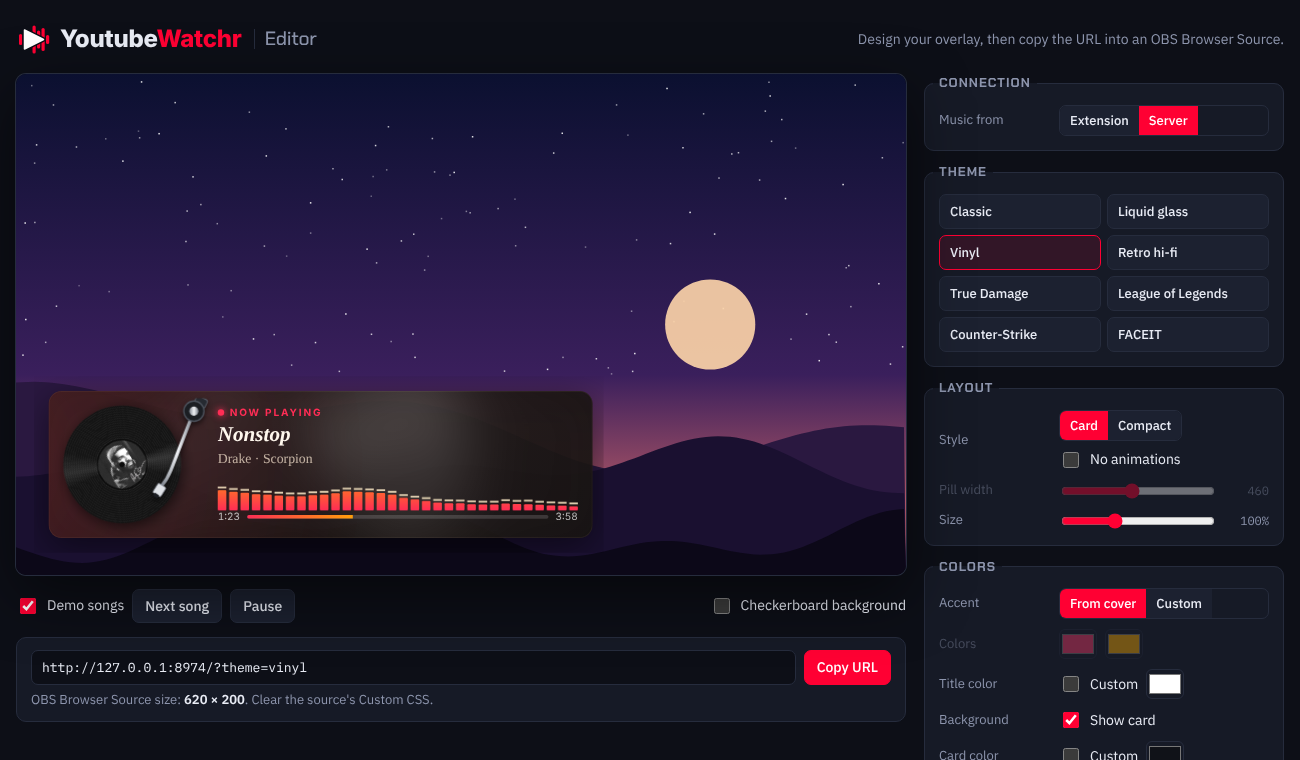
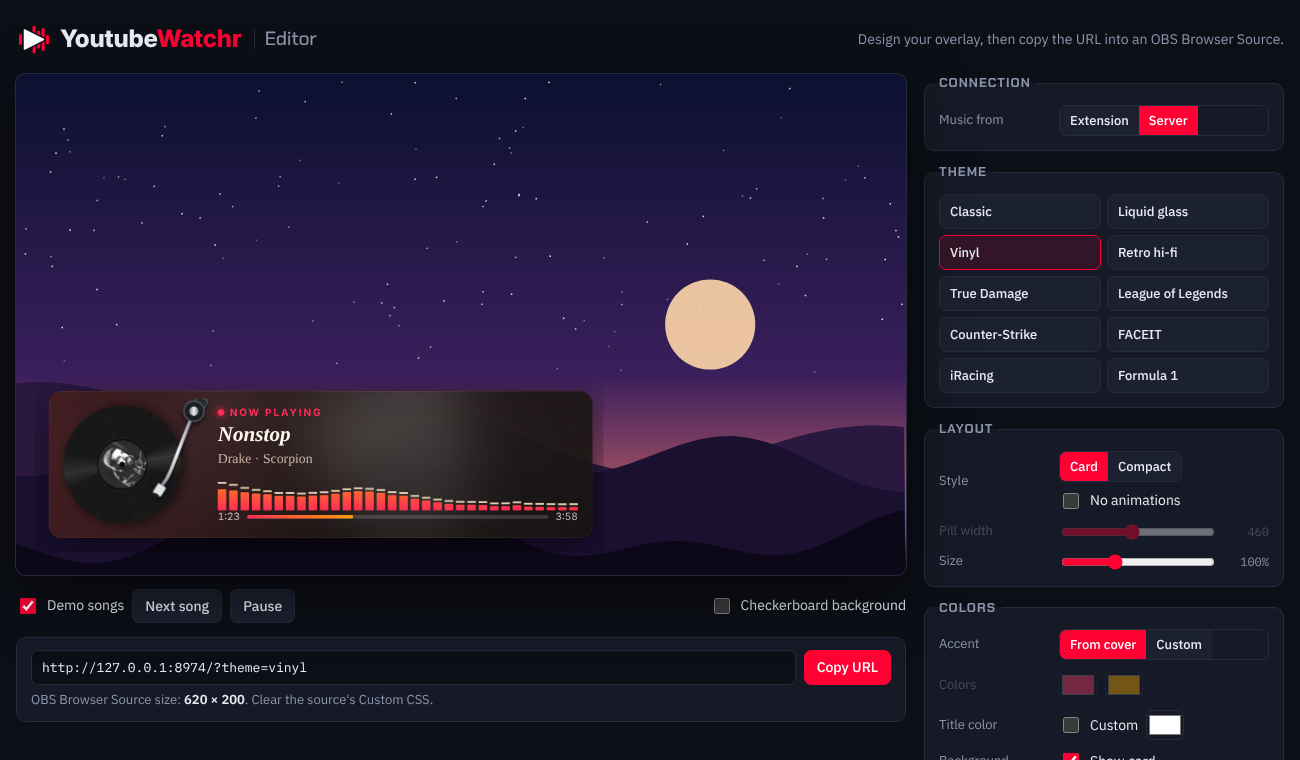
Add iRacing and Formula 1 themes (#17)
theme=iracing: sim-racing HUD with a blue top edge, a license-style
"A" chip as the label, a three-sector progress bar and the equalizer
drawn as the input telemetry graph (bass = green throttle trace, highs =
red brake line, pedal bars on the right). Barlow Semi Condensed.

theme=f1: broadcast-graphics look with a rounded top-right corner, red
team stripe, slanted red "Now Playing" tab, heavy uppercase title and a
checkered flag fading in on the right. Titillium Web.

Both have compact versions and their own colors, are in the editor, and
the README GIF, editor screenshot and theme list include them.

Claude-Session: https://claude.ai/code/session_01MvjFoof3BfhcWmt8swZFtR

diff --git a/overlay.html b/overlay.html
@@ -425,6 +425,94 @@
   }
   body.compact.truedamage #eq { flex: none; min-height: 0; width: 70px; height: 30px; }
 
+  /* theme=iracing: sim-racing HUD. Dark slate panel with a blue top edge, a
+     license-style chip as the label, and the equalizer as the input telemetry
+     trace (green throttle area, red brake line, pedal bars on the right). The
+     progress bar is split into three sectors. */
+  body.iracing { font-family: "Barlow Semi Condensed", "Arial Narrow", "Segoe UI", sans-serif; --frost: .12; }
+  body.iracing #card {
+    border-radius: 4px; padding: 14px 18px 14px 14px;
+    background: linear-gradient(180deg, rgba(22,28,38,.95), rgba(10,13,19,.95));
+    box-shadow: 0 10px 30px rgba(0,0,0,.5), inset 0 0 0 1px rgba(255,255,255,.07);
+  }
+  body.iracing #card::after {
+    content: ""; position: absolute; left: 0; right: 0; top: 0; height: 3px; pointer-events: none;
+    background: linear-gradient(90deg, var(--accent), color-mix(in srgb, var(--accent) 30%, transparent));
+  }
+  body.iracing #glow { display: none; }
+  body.iracing #art-wrap { border-radius: 3px; box-shadow: 0 0 0 1px rgba(255,255,255,.18), 0 6px 16px rgba(0,0,0,.5); }
+  body.iracing #label {
+    align-self: flex-start; padding: 2px 8px 2px 0; border-radius: 3px; gap: 7px;
+    background: color-mix(in srgb, var(--accent) 22%, transparent); box-shadow: inset 0 0 0 1px var(--accent);
+    color: #fff; font-size: 12px; font-weight: 700; letter-spacing: .1em; overflow: hidden;
+  }
+  body.iracing #label::before {
+    /* the license class letter box */
+    content: "A"; width: auto; height: auto; padding: 2px 6px; margin: -2px 0; border-radius: 0;
+    background: var(--accent); box-shadow: none; color: #fff; font-size: 12px; letter-spacing: 0;
+  }
+  body.iracing #card.paused #label::before { opacity: 1; }
+  body.iracing #title { font-size: 26px; font-weight: 700; line-height: 1.15; margin-top: 7px; }
+  body.iracing #artist { font-size: 17px; font-weight: 600; color: #9fb0c4; }
+  body.iracing #eq { min-height: 30px; margin-top: 8px; }
+  body.iracing #progress { font-size: 14px; font-weight: 700; color: #cfd8e3; }
+  body.iracing #bar {
+    height: 5px; border-radius: 0; position: relative;
+    background: rgba(255,255,255,.12);
+  }
+  body.iracing #bar::after {
+    /* sector lines at one and two thirds */
+    content: ""; position: absolute; inset: 0; pointer-events: none;
+    background: linear-gradient(90deg, transparent calc(33.33% - 1px), #0a0d13 0 calc(33.33% + 1px), transparent 0 calc(66.67% - 1px), #0a0d13 0 calc(66.67% + 1px), transparent 0);
+  }
+  body.iracing #fill { background: var(--accent); }
+  body.compact.iracing #card { border-radius: 4px; padding: 10px 20px 10px 10px; }
+  body.compact.iracing #eq { width: 70px; height: 28px; min-height: 0; }
+  body.compact.iracing #card::after { border-radius: 0; }
+  body.compact.iracing { --cfs: 19px; }
+
+  /* theme=f1: race broadcast graphics. Dark card with a rounded top-right
+     corner, a red team stripe on the left, a slanted red "Now Playing" tab,
+     bold uppercase title and a checkered flag fading in on the right. */
+  body.f1 {
+    font-family: "Titillium Web", "Segoe UI", system-ui, sans-serif;
+    --frost: .1; --bar-round: 0; --bar1: var(--accent); --bar2: #fff; --cap: rgba(255,255,255,.9);
+  }
+  body.f1 #card {
+    border-radius: 0 22px 0 0; padding: 14px 20px 14px 22px;
+    background: linear-gradient(90deg, rgba(21,21,30,.96), rgba(31,31,39,.94));
+    box-shadow: 0 10px 30px rgba(0,0,0,.5);
+  }
+  body.f1 #card::before {
+    content: ""; position: absolute; left: 0; top: 0; bottom: 0; width: 6px; pointer-events: none;
+    background: var(--accent);
+  }
+  body.f1 #card::after {
+    content: ""; position: absolute; right: 0; top: 0; width: 46%; height: 100%; pointer-events: none;
+    background: repeating-conic-gradient(rgba(255,255,255,.07) 0 25%, transparent 0 50%) 0 0 / 16px 16px;
+    -webkit-mask-image: linear-gradient(90deg, transparent, #000 85%); mask-image: linear-gradient(90deg, transparent, #000 85%);
+  }
+  body.f1 #glow { display: none; }
+  body.f1 #art-wrap { border-radius: 0 10px 0 0; box-shadow: 0 6px 16px rgba(0,0,0,.5); }
+  body.f1 #label {
+    align-self: flex-start; padding: 1px 14px 1px 10px; margin-left: -2px;
+    background: var(--accent); color: #fff; font-size: 12px; font-weight: 700; letter-spacing: .12em;
+    clip-path: polygon(0 0, 100% 0, calc(100% - 8px) 100%, 0 100%);
+  }
+  body.f1 #label::before { display: none; }
+  body.f1 #title { font-size: 26px; font-weight: 900; text-transform: uppercase; line-height: 1.05; margin-top: 5px; letter-spacing: .01em; }
+  body.f1 #artist { font-size: 17px; font-weight: 400; color: #c6c6cf; }
+  body.f1 #eq { min-height: 36px; }
+  body.f1 #progress { font-size: 13px; font-weight: 700; color: #c6c6cf; }
+  body.f1 #bar { height: 4px; border-radius: 0; background: rgba(255,255,255,.14); }
+  body.f1 #fill { background: var(--accent); box-shadow: 2px 0 0 #fff; }
+  body.compact.f1 #card { border-radius: 0 18px 0 0; padding: 10px 20px 10px 16px; }
+  body.compact.f1 #card::before { border-radius: 0; width: 5px; }
+  body.compact.f1 #card::after { border-radius: 0 18px 0 0; }
+  body.compact.f1 #art-wrap, body.compact.iracing #art-wrap { box-shadow: none; border-radius: 50%; }
+  body.compact.f1 #title { font-weight: 900; }
+  body.compact.f1 { --cfs: 19px; }
+
   /* compact versions keep the hard edges */
   body.compact.lol #card, body.compact.cs #card { border-radius: 0; }
   body.compact.cs #label { display: none; }
@@ -498,7 +586,7 @@
 // Options via URL, e.g. http://127.0.0.1:8974/?bars=24&accent=00e5ff&hidePaused=1
 const q = new URLSearchParams(location.search);
 const opt = {
-  theme: q.get('theme') || 'classic', // classic | glass | vinyl | retro | lol | cs | faceit ("minimal" = classic + compact)
+  theme: q.get('theme') || 'classic', // classic | glass | vinyl | retro | truedamage | lol | cs | faceit | iracing | f1 ("minimal" = classic + compact)
   compact: q.get('compact') === '1' || q.get('theme') === 'minimal',
   bars: +q.get('bars') || (q.get('compact') === '1' || q.get('theme') === 'minimal' ? 7 : q.get('theme') === 'faceit' ? 12 : 32),
   accent: q.get('accent'),            // fixed hex color; otherwise taken from the cover
@@ -529,16 +617,16 @@ const opt = {
 };
 if (opt.theme === 'minimal') opt.theme = 'classic';
 if (opt.theme === 'truedamage') document.body.classList.add('vinyl');
-document.body.classList.add(['glass', 'vinyl', 'retro', 'lol', 'cs', 'faceit', 'truedamage'].includes(opt.theme) ? opt.theme : 'classic');
+document.body.classList.add(['glass', 'vinyl', 'retro', 'lol', 'cs', 'faceit', 'truedamage', 'iracing', 'f1'].includes(opt.theme) ? opt.theme : 'classic');
 document.body.classList.toggle('compact', opt.compact);
-const FONTS = { retro: 'VT323', lol: 'Cinzel:wght@600;700', truedamage: 'Cinzel:wght@600;700', cs: 'Rajdhani:wght@600;700', faceit: 'Geist:wght@400;600;700' };
+const FONTS = { retro: 'VT323', lol: 'Cinzel:wght@600;700', truedamage: 'Cinzel:wght@600;700', cs: 'Rajdhani:wght@600;700', faceit: 'Geist:wght@400;600;700', iracing: 'Barlow+Semi+Condensed:wght@600;700', f1: 'Titillium+Web:wght@400;700;900' };
 if (FONTS[opt.theme]) {
   const f = document.createElement('link');
   f.rel = 'stylesheet'; f.href = opt.fonts || `https://fonts.googleapis.com/css2?family=${FONTS[opt.theme]}&display=swap`;
   document.head.appendChild(f);
 }
 // Game themes use their own palette instead of colors picked from the cover.
-const BRAND = { lol: ['#c8aa6e', '#0ac8b9'], cs: ['#e8c269', '#8db4e2'], faceit: ['#ff5500', '#ff5500'], truedamage: ['#2bf0c8', '#b026ff'] }[opt.theme];
+const BRAND = { lol: ['#c8aa6e', '#0ac8b9'], cs: ['#e8c269', '#8db4e2'], faceit: ['#ff5500', '#ff5500'], truedamage: ['#2bf0c8', '#b026ff'], iracing: ['#1e6bff', '#22d34b'], f1: ['#e10600', '#ff5a4f'] }[opt.theme];
 document.body.classList.toggle('hide-paused', opt.hidePaused);
 document.body.classList.toggle('no-card', !opt.card);
 document.body.classList.toggle('no-progress', !opt.progress);
@@ -740,6 +828,7 @@ function draw(now) {
     ? Math.min(1, (track.position + (playing ? (now - trackAt) / 1000 : 0)) / track.duration) : 0;
   const gap = Math.min(3, w / opt.bars * .3), bw = (w - gap * (opt.bars - 1)) / opt.bars;
   if (opt.theme === 'truedamage') { drawSuperstar(w, h, bw, gap, pct); }
+  else if (opt.theme === 'iracing') { drawTelemetry(w, h, now); }
   else for (let i = 0; i < opt.bars; i++) {
     // Fast attack, slower release, falling peak caps.
     level[i] += (target[i] - level[i]) * (target[i] > level[i] ? .55 : .18);
@@ -800,6 +889,44 @@ function drawSuperstar(w, h, bw, gap, pct) {
   g.lineWidth = 1.5; g.strokeStyle = '#c8aa6e'; g.stroke();
   g.beginPath(); g.moveTo(cx - 2.8, cy + .2); g.lineTo(cx - .6, cy + 2.3); g.lineTo(cx + 3, cy - 2.2);
   g.strokeStyle = '#e8f6ff'; g.lineWidth = 1.6; g.stroke();
+}
+
+// iRacing: the music as input telemetry. Bass drives the green throttle trace,
+// the highs the red brake line; both scroll to the left, with pedal bars on
+// the right like the in-sim input graph.
+const trace = [];
+let traceAt = 0;
+function drawTelemetry(w, h, now) {
+  let lo = 0, hi = 0;
+  const half = Math.ceil(opt.bars / 2);
+  for (let i = 0; i < opt.bars; i++) {
+    level[i] += (target[i] - level[i]) * (target[i] > level[i] ? .55 : .18);
+    if (i < half) lo += level[i] / half; else hi += level[i] / (opt.bars - half);
+  }
+  const thr = Math.min(1, lo * 1.35), brk = Math.min(1, Math.max(0, hi - .18) * 2.2);
+  const pedals = opt.compact ? 0 : 28, tw = w - pedals, step = 4, max = Math.ceil(tw / step) + 1;
+  if (now - traceAt > 33) { traceAt = now; trace.push([thr, brk]); if (trace.length > max) trace.splice(0, trace.length - max); }
+  const y = v => h - 1 - v * (h - 3);
+  g.fillStyle = 'rgba(255,255,255,.07)';
+  for (const f of [.25, .5, .75]) g.fillRect(0, Math.round(y(f)), tw, 1);
+  const x0 = tw - (trace.length - 1) * step;
+  for (const [k, color] of [[0, '#22d34b'], [1, '#ff2a2a']]) {
+    g.beginPath();
+    trace.forEach((p, i) => g.lineTo(x0 + i * step, y(p[k])));
+    if (!k) {
+      g.lineTo(tw, h); g.lineTo(x0, h); g.closePath();
+      g.fillStyle = 'rgba(34,211,75,.18)'; g.fill();
+      g.beginPath(); trace.forEach((p, i) => g.lineTo(x0 + i * step, y(p[0])));
+    }
+    g.strokeStyle = color; g.lineWidth = 1.6; g.lineJoin = 'round'; g.stroke();
+  }
+  if (!pedals) return;
+  // pedal bars: brake, throttle
+  [[brk, '#ff2a2a'], [thr, '#22d34b']].forEach(([v, color], i) => {
+    const x = tw + 8 + i * 11;
+    g.fillStyle = 'rgba(255,255,255,.1)'; g.fillRect(x, 0, 8, h);
+    g.fillStyle = color; g.fillRect(x, h - v * h, 8, v * h);
+  });
 }
 
 // LED-style meter: lit segments go accent, second accent, red with height.

diff --git a/editor.html b/editor.html
@@ -280,8 +280,9 @@
 const THEMES = [
   ['classic', 'Classic'], ['glass', 'Liquid glass'], ['vinyl', 'Vinyl'], ['retro', 'Retro hi-fi'],
   ['truedamage', 'True Damage'], ['lol', 'League of Legends'], ['cs', 'Counter-Strike'], ['faceit', 'FACEIT'],
+  ['iracing', 'iRacing'], ['f1', 'Formula 1'],
 ];
-const BRAND_THEMES = ['lol', 'cs', 'faceit', 'truedamage'];
+const BRAND_THEMES = ['lol', 'cs', 'faceit', 'truedamage', 'iracing', 'f1'];
 const DEFAULTS = {
   theme: 'classic', compact: false, still: false, width: 460, scale: 1,
   accentMode: 'auto', accent: '#ff3d6e', accent2: '#ffb000',

diff --git a/README.md b/README.md
@@ -8,10 +8,10 @@
 Show the song you're playing on **YouTube Music** in your OBS stream: cover, title, artist, progress and an equalizer that moves with the music.
 
 <p align="center">
-  <img src="docs/themes.gif" alt="The overlay cycling through all eight themes: Classic, Liquid glass, Vinyl, Retro hi-fi, True Damage, League of Legends, Counter-Strike and FACEIT, each with a live equalizer" width="720">
+  <img src="docs/themes.gif" alt="The overlay cycling through all ten themes: Classic, Liquid glass, Vinyl, Retro hi-fi, True Damage, League of Legends, Counter-Strike, FACEIT, iRacing and Formula 1, each with a live equalizer" width="720">
 </p>
 
-- 8 designs, from a clean card to a spinning record, plus game styles for League of Legends, Counter-Strike and FACEIT
+- 10 designs, from a clean card to a spinning record, plus game styles for League of Legends, Counter-Strike and FACEIT and racing styles for iRacing and Formula 1
 - An editor in your browser to change colors, fonts, size and more, with a live preview
 - Works with just a browser extension through OBS WebSocket, or with a small local server
 - Runs on your own computer. No account, no API key, nothing is sent anywhere
@@ -76,7 +76,7 @@ Every theme also has a **compact** version, a slim one-line bar where the progre
   <img src="docs/compact.png" alt="Compact versions of the Liquid glass and Vinyl themes">
 </p>
 
-Most themes take their colors from the album cover. The game themes use their own colors.
+Most themes take their colors from the album cover. The game and racing themes use their own colors. In `iracing` the equalizer is drawn as the in-sim input telemetry: bass is the green throttle trace, the highs the red brake line.
 
 ## All options
 
@@ -86,7 +86,7 @@ The editor writes these for you. If you prefer, add them to the OBS URL yourself
 
 | Option | Example | What it does |
 |---|---|---|
-| `theme` | `?theme=vinyl` | `classic` (default), `glass`, `vinyl`, `retro`, `truedamage`, `lol`, `cs` or `faceit` |
+| `theme` | `?theme=vinyl` | `classic` (default), `glass`, `vinyl`, `retro`, `truedamage`, `lol`, `cs`, `faceit`, `iracing` or `f1` |
 | `compact` | `?compact=1` | Slim one-line version |
 | `width` | `?compact=1&width=380` | Width of the compact bar in pixels (default 460). Long names scroll inside |
 | `scale` | `?scale=1.5` | Make everything bigger or smaller (0.3 to 3). Multiply the OBS width and height by the same number |
